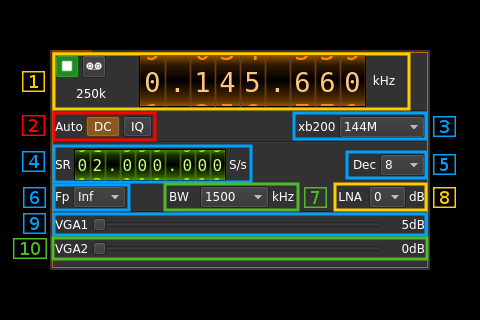
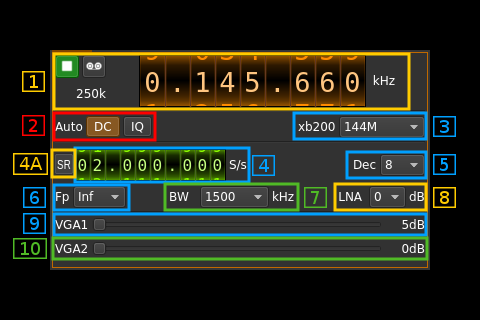
BladeRF1: updated plugin version and screenshots

Changed region(s): [[0.0, 0.4375, 0.5938, 0.5938]]

diff --git a/plugins/samplesink/bladerf1output/bladerf1outputplugin.cpp b/plugins/samplesink/bladerf1output/bladerf1outputplugin.cpp
@@ -31,7 +31,7 @@
 
 const PluginDescriptor Bladerf1OutputPlugin::m_pluginDescriptor = {
 	QString("BladeRF1 Output"),
-	QString("4.5.2"),
+	QString("4.5.4"),
 	QString("(c) Edouard Griffiths, F4EXB"),
 	QString("https://github.com/f4exb/sdrangel"),
 	true,

diff --git a/plugins/samplesource/bladerf1input/bladerf1inputplugin.cpp b/plugins/samplesource/bladerf1input/bladerf1inputplugin.cpp
@@ -31,7 +31,7 @@
 
 const PluginDescriptor Blderf1InputPlugin::m_pluginDescriptor = {
 	QString("BladeRF1 Input"),
-	QString("4.5.2"),
+	QString("4.5.4"),
 	QString("(c) Edouard Griffiths, F4EXB"),
 	QString("https://github.com/f4exb/sdrangel"),
 	true,
